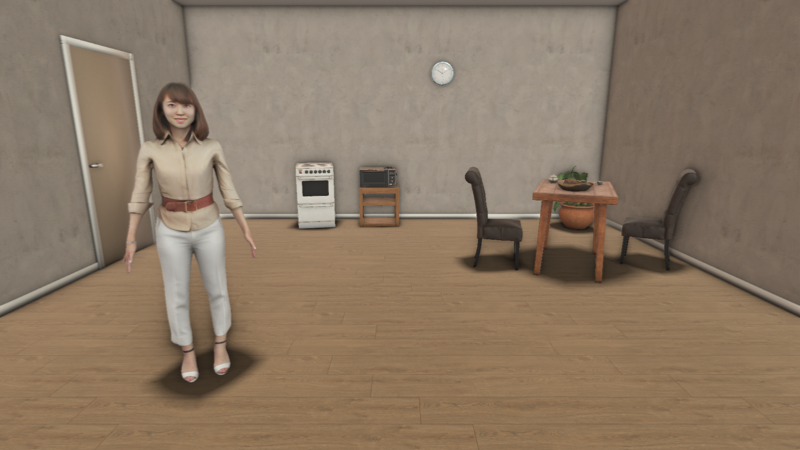
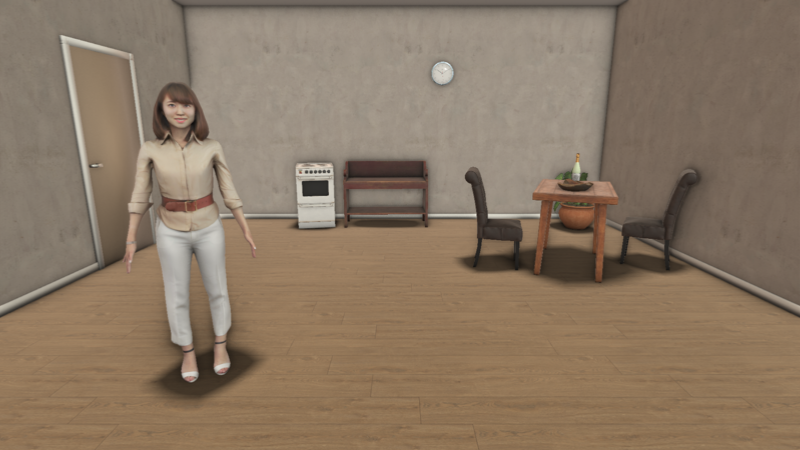
Estudio: E2 v5 (cocina-comedor con banca y botellas, objetos que el backend sí narra)

Changed region(s): [[0.4062, 0.3422, 0.5625, 0.5289], [0.6875, 0.3422, 0.75, 0.4044]]

diff --git a/scripts/import_estudio2.py b/scripts/import_estudio2.py
@@ -48,7 +48,8 @@ SCENES = ["E1", "E2", "E3", "E4", "E5", "E6"]   # E6: escena de práctica (comed
 V2 = ("346191e1c0612119c93f0beae5f64578db85046f", "output")
 V3 = ("84eb7c22fb69da962a546065c45675603e60c8ea", "output/estudio_v3")
 V4 = ("01891dabc97e5fa37200d0e108f728ac45865dad", "output/estudio_v4")
-SOURCES = {"E1": V4, "E2": V4, "E3": V3, "E4": V3, "E5": V4, "E6": V4}
+V5 = ("cc09442f804a881cd63ae6b8f877f84905fe7a86", "output/estudio_v5")
+SOURCES = {"E1": V4, "E2": V5, "E3": V3, "E4": V3, "E5": V4, "E6": V4}
 REPLACED = [
     {"stimulus_id": sid, "fecha": "2026-10-10", "commit_anterior": V2[0], "sha256_anterior": old,
      "motivo": "ruta libre ambigua o no verificada; v3: sala con sofá divisor y puertas laterales, una sola "
@@ -63,6 +64,10 @@ REPLACED = [
[3 lines of base64/hex data omitted]
+] + [
[1 lines of base64/hex data omitted]
+     "motivo": "v5: el microondas y el juego de té (clases que el backend descarta) se cambian por una banca y "
+               "botellas, clases COCO que el backend sí deja pasar; la narrativa menciona más objetos"}
 ]
 
 
